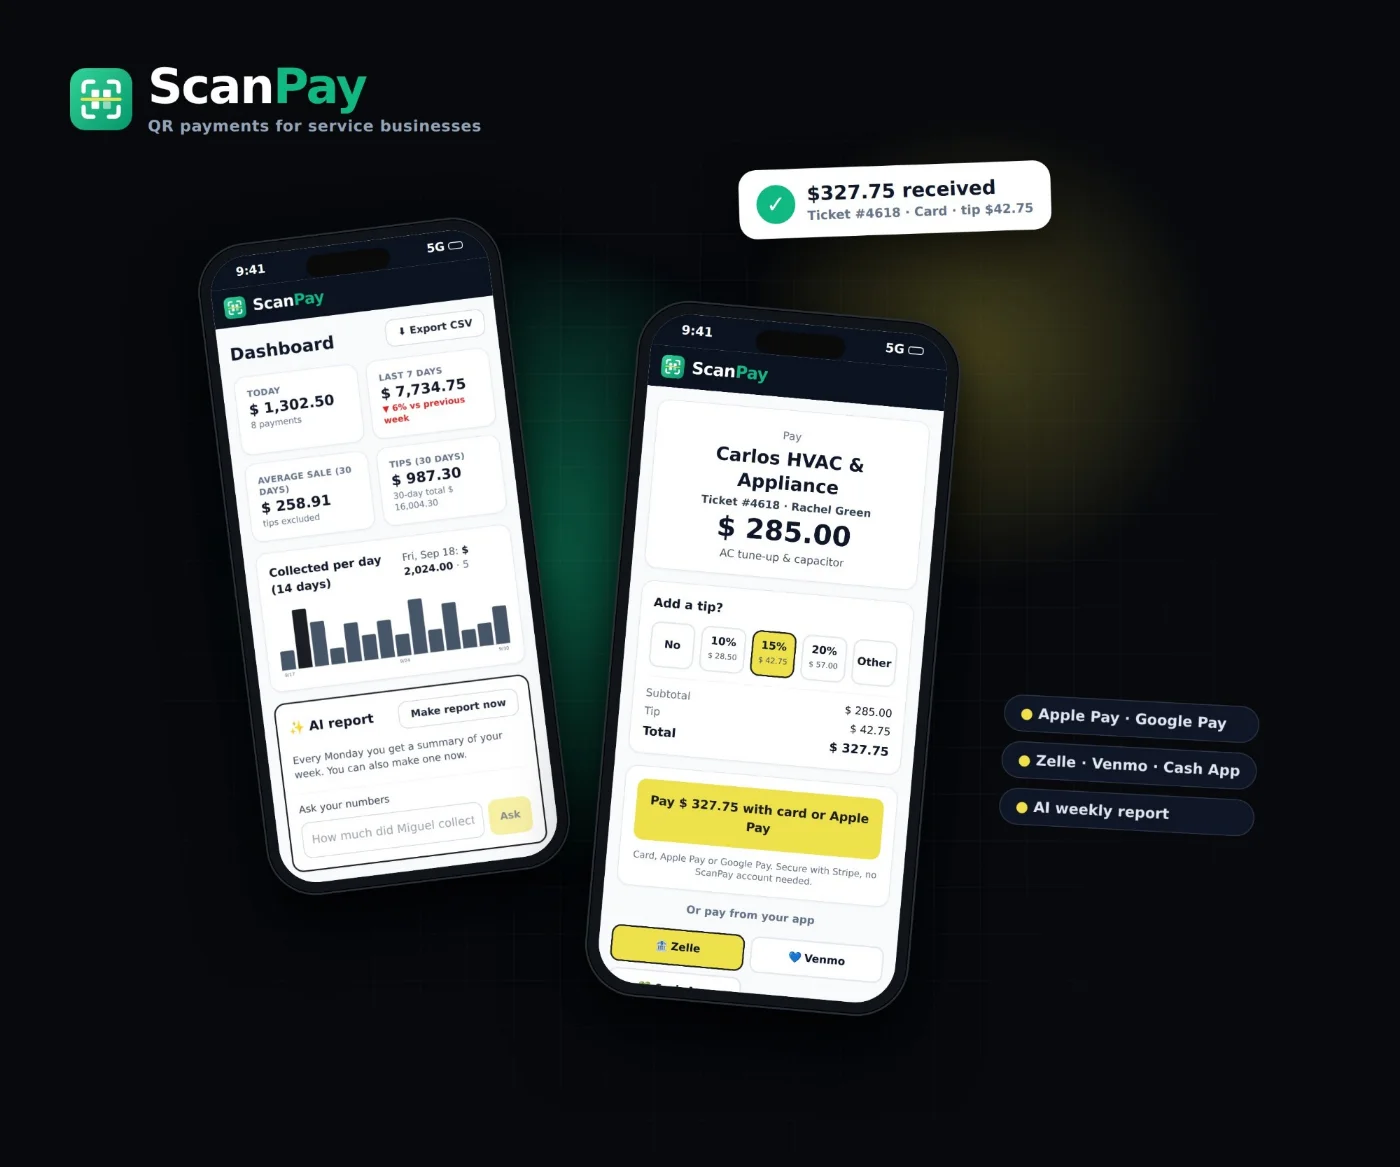
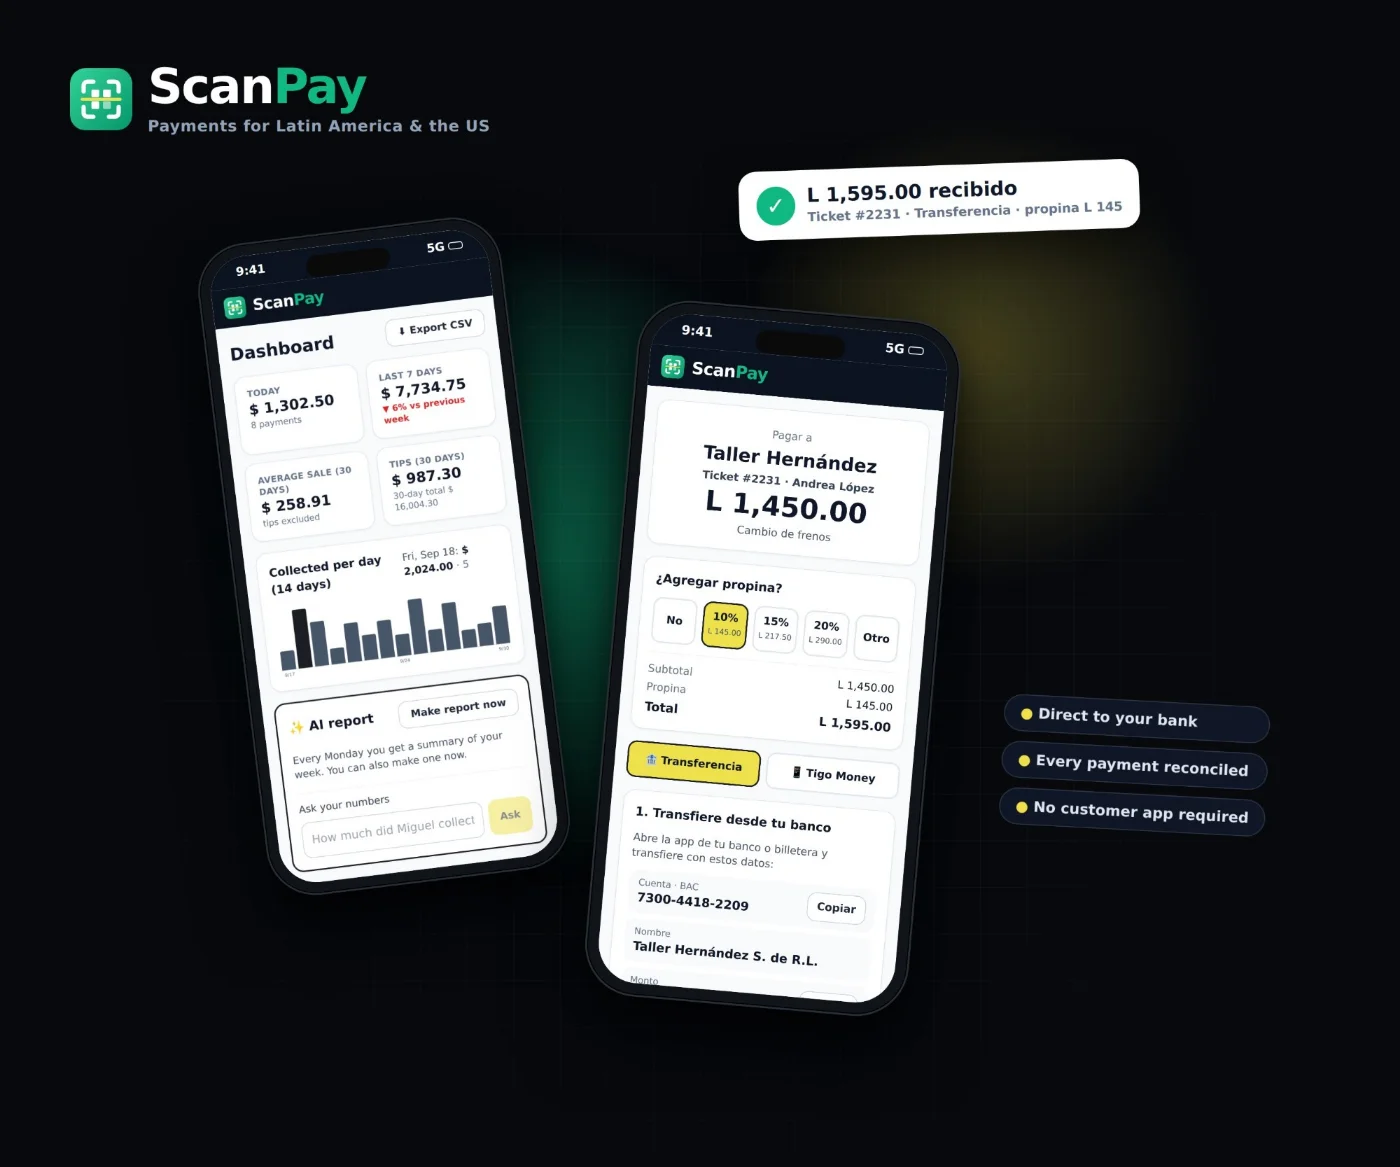
Apps page: reposition ScanPay for Latin America and the US
New copy (problem, how it works, six features with bold leads, US note,
closing line) in English and Spanish, and the new mockup with a bank
transfer in lempiras. The card now shows the mockup as a banner with the
text full-width below, since the longer copy left the side picture
floating in empty space. Page description and hero copy say payments.

Claude-Session: https://claude.ai/code/session_018UZh4FneLQ9JBAsKoA82MW

diff --git a/apps/index.php b/apps/index.php
@@ -29,10 +29,10 @@ $ver = function ($f) use ($shared) { return @filemtime($shared . $f) ?: 1; };
   <meta charset="utf-8" />
   <meta name="viewport" content="width=device-width, initial-scale=1" />
   <title>Rodrik Apps — Enterprise Solutions, Entertainment &amp; Simulation | Rodrik Consulting</title>
-  <meta name="description" content="Rodrik Apps, from Rodrik Consulting: ScanPay for QR payments, FLAME for AI governance, ROHA for organizational health and RodIQ for personalized SAT and ACT preparation; plus Blocky Market and Fantasy Coach Live, entertainment apps built on real-time data and analytics." />
+  <meta name="description" content="Rodrik Apps, from Rodrik Consulting: ScanPay for small-business payments in Latin America and the US, FLAME for AI governance, ROHA for organizational health and RodIQ for personalized SAT and ACT preparation; plus Blocky Market and Fantasy Coach Live, entertainment apps built on real-time data and analytics." />
   <meta property="og:type" content="website" />
   <meta property="og:title" content="Rodrik Apps — ScanPay, FLAME, ROHA, RodIQ, Blocky Market &amp; Fantasy Coach Live" />
-  <meta property="og:description" content="Enterprise solutions for QR payments, AI governance, organizational health and SAT and ACT prep, and entertainment apps built on real-time data and simulation. From Rodrik Consulting." />
+  <meta property="og:description" content="Enterprise solutions for payments, AI governance, organizational health and SAT and ACT prep, and entertainment apps built on real-time data and simulation. From Rodrik Consulting." />
   <meta property="og:url" content="https://apps.rodrikconsulting.com/" />
   <meta property="og:image" content="https://apps.rodrikconsulting.com/og.png" />
   <meta name="twitter:card" content="summary_large_image" />
@@ -195,7 +195,7 @@ $ver = function ($f) use ($shared) { return @filemtime($shared . $f) ?: 1; };
     .tech span{display:inline-block;font-size:12px;font-weight:600;padding:4px 9px;border-radius:999px;margin:0 4px 5px 0;
       background:rgba(255,255,255,.05);border:1px solid rgba(255,255,255,.12);color:var(--ink);}
 
-    /* ScanPay: QR payments, green brand with a yellow pay button; the product mockup on its own dark field */
+    /* ScanPay: payments for Latin America and the US, green brand with a yellow pay button; the product mockup on its own dark field */
     .scanpay .app-visual{background:#08090d url(scanpay.webp) center / contain no-repeat;}
     .scanpay .app-tag{background:rgba(34,195,122,.15);color:#5fe0a4;}
     .scanpay h3 em{font-style:normal;color:#22c37a;}
@@ -204,6 +204,17 @@ $ver = function ($f) use ($shared) { return @filemtime($shared . $f) ?: 1; };
     .scanpay .btn-outline{border-color:#22c37a;color:#5fe0a4;}
     .scanpay .btn-outline:hover{background:rgba(34,195,122,.12);color:#fff;border-color:#22c37a;}
     .scanpay .status-pill{--pill:rgba(242,220,74,.6);color:#fdf6c3;}
+    /* its copy runs long, so the mockup sits on top as a banner and the words use the full width below */
+    .app-card.feature.scanpay{grid-template-columns:1fr;}
+    .app-card.feature.scanpay .app-visual{min-height:0;height:500px;}
+    .app-card.feature.scanpay ul{grid-template-columns:repeat(3,minmax(0,1fr));}
+    .scanpay .app-body > p:not(.tech):not(.app-note){max-width:880px;}
+    @media (max-width:1000px){.app-card.feature.scanpay ul{grid-template-columns:1fr 1fr;}}
+    @media (max-width:640px){.app-card.feature.scanpay .app-visual{height:300px;}.app-card.feature.scanpay ul{grid-template-columns:1fr;}}
+    .scanpay .lead-line{margin:0 0 10px;font-weight:700;color:#5fe0a4;}
+    .scanpay li strong,.scanpay .us-note strong,.scanpay .closing strong{color:#fff;}
+    .scanpay .us-note{margin:0 0 14px;padding:12px 14px;border-left:3px solid #F2DC4A;border-radius:10px;background:rgba(242,220,74,.06);color:var(--muted);font-size:14.5px;}
+    .scanpay .closing{margin:0 0 16px;color:var(--muted);}
 
     /* ROHA: organizational analytics -- a health index, five dimensions, current vs desired */
     .roha .app-visual{background:radial-gradient(circle at 70% 20%, rgba(52,198,142,.22), transparent 58%), linear-gradient(180deg,#0c1b35,#070f1f);}
@@ -356,7 +367,7 @@ $ver = function ($f) use ($shared) { return @filemtime($shared . $f) ?: 1; };
     <div>
       <p class="kicker" data-en="Rodrik Apps" data-es="Rodrik Apps">Rodrik Apps</p>
       <h1 data-en="Software built on the way we think about organizations" data-es="Software construido sobre nuestra forma de entender las organizaciones">Software built on the way we think about organizations</h1>
-      <p class="lede"><span data-en="The same focus on clarity, evidence and measurable impact that guides our consulting work. Enterprise solutions for QR payments, AI governance, organizational health and SAT and ACT preparation. And entertainment apps that put real-time data, analytics and simulation in people's hands." data-es="El mismo enfoque en claridad, evidencia e impacto medible que guía nuestra consultoría. Soluciones empresariales para pagos con QR, la gobernanza de la IA, la salud organizacional y la preparación para el SAT y el ACT. Y apps de entretenimiento que ponen datos en tiempo real, analítica y simulación en manos de las personas.">The same focus on clarity, evidence and measurable impact that guides our consulting work. Enterprise solutions for QR payments, AI governance, organizational health and SAT and ACT preparation. And entertainment apps that put real-time data, analytics and simulation in people's hands.</span></p>
+      <p class="lede"><span data-en="The same focus on clarity, evidence and measurable impact that guides our consulting work. Enterprise solutions for payments, AI governance, organizational health and SAT and ACT preparation. And entertainment apps that put real-time data, analytics and simulation in people's hands." data-es="El mismo enfoque en claridad, evidencia e impacto medible que guía nuestra consultoría. Soluciones empresariales para pagos, la gobernanza de la IA, la salud organizacional y la preparación para el SAT y el ACT. Y apps de entretenimiento que ponen datos en tiempo real, analítica y simulación en manos de las personas.">The same focus on clarity, evidence and measurable impact that guides our consulting work. Enterprise solutions for payments, AI governance, organizational health and SAT and ACT preparation. And entertainment apps that put real-time data, analytics and simulation in people's hands.</span></p>
       <div class="cta">
         <a class="btn" href="#enterprise" data-en="Enterprise solutions" data-es="Soluciones empresariales">Enterprise solutions</a>
         <a class="btn btn-outline" href="https://rodrikconsulting.com/#contact" data-en="Work with us" data-es="Trabaje con nosotros">Work with us</a>
@@ -381,23 +392,27 @@ $ver = function ($f) use ($shared) { return @filemtime($shared . $f) ?: 1; };
 
     <div class="feature-stack">
       <article class="app-card feature scanpay reveal" id="scanpay">
-        <div class="app-visual" role="img" aria-label="ScanPay dashboard and customer payment screen on two phones">
+        <div class="app-visual" role="img" aria-label="ScanPay on two phones: the owner's dashboard, and a customer paying a repair shop by bank transfer with a tip">
           <span class="status-pill" data-en="Pilot · Coming soon" data-es="Piloto · Próximamente">Pilot · Coming soon</span>
         </div>
         <div class="app-body">
-          <span class="app-tag" data-en="Payments" data-es="Pagos">Payments</span>
+          <span class="app-tag" data-en="Payments · Latin America &amp; US" data-es="Pagos · Latinoamérica y EE.&nbsp;UU.">Payments · Latin America &amp; US</span>
           <h3>Scan<em>Pay</em></h3>
-          <p class="full" data-en="QR payments for service businesses" data-es="Pagos con QR para negocios de servicios">QR payments for service businesses</p>
-          <p class="tagline" data-en="Get paid on the spot. Straight to your account." data-es="Cobre en el momento. Directo a su cuenta.">Get paid on the spot. Straight to your account.</p>
-          <p class="pitch"><span data-en="ScanPay turns any job, ticket or counter into a QR code. The customer scans it, adds a tip, and pays with Apple Pay, Google Pay, card, Zelle, Venmo or Cash App. The money goes straight to the business's own account, and the owner sees it come in live." data-es="ScanPay convierte cualquier trabajo, ticket o mostrador en un código QR. El cliente lo escanea, agrega una propina y paga con Apple Pay, Google Pay, tarjeta, Zelle, Venmo o Cash App. El dinero va directo a la cuenta del negocio, y el dueño lo ve llegar en vivo.">ScanPay turns any job, ticket or counter into a QR code. The customer scans it, adds a tip, and pays with Apple Pay, Google Pay, card, Zelle, Venmo or Cash App. The money goes straight to the business's own account, and the owner sees it come in live.</span></p>
+          <p class="full" data-en="The payment system built for Latin America's small businesses." data-es="El sistema de pagos hecho para los pequeños negocios de Latinoamérica.">The payment system built for Latin America's small businesses.</p>
+          <p class="tagline" data-en="Get paid like a big company, using the bank account you already have." data-es="Cobre como una gran empresa, con la cuenta bancaria que ya tiene.">Get paid like a big company, using the bank account you already have.</p>
+          <p class="pitch"><span data-en="Across Latin America, millions of small businesses still rely on cash and manual bank transfers. The payment may arrive, but matching it to the customer, sale, employee and tip is still manual." data-es="En toda Latinoamérica, millones de pequeños negocios todavía dependen del efectivo y de transferencias bancarias manuales. El pago puede llegar, pero relacionarlo con el cliente, la venta, el empleado y la propina sigue siendo manual.">Across Latin America, millions of small businesses still rely on cash and manual bank transfers. The payment may arrive, but matching it to the customer, sale, employee and tip is still manual.</span></p>
+          <p class="lead-line" data-en="ScanPay turns a bank transfer into a trackable business payment." data-es="ScanPay convierte una transferencia bancaria en un pago de negocio rastreable.">ScanPay turns a bank transfer into a trackable business payment.</p>
+          <p class="pitch"><span data-en="Every sale gets its own payment QR. The customer scans it, pays through a supported bank or wallet, and the money goes directly to the business's account. ScanPay connects the payment to the sale, employee, tip and reporting, without holding the merchant's money." data-es="Cada venta tiene su propio QR de pago. El cliente lo escanea, paga desde un banco o billetera compatible, y el dinero va directo a la cuenta del negocio. ScanPay conecta el pago con la venta, el empleado, la propina y los reportes, sin retener el dinero del comercio.">Every sale gets its own payment QR. The customer scans it, pays through a supported bank or wallet, and the money goes directly to the business's account. ScanPay connects the payment to the sale, employee, tip and reporting, without holding the merchant's money.</span></p>
           <ul>
-            <li data-en="Scan-to-pay in seconds. The customer doesn't need an app or an account." data-es="Pague con un escaneo en segundos. El cliente no necesita una app ni una cuenta.">Scan-to-pay in seconds. The customer doesn't need an app or an account.</li>
-            <li data-en="Apple Pay and Google Pay, plus Zelle, Venmo and Cash App" data-es="Apple Pay y Google Pay, además de Zelle, Venmo y Cash App">Apple Pay and Google Pay, plus Zelle, Venmo and Cash App</li>
-            <li data-en="Tips built in: 10%, 15%, 20% or a custom amount" data-es="Propinas integradas: 10&nbsp;%, 15&nbsp;%, 20&nbsp;% o un monto personalizado">Tips built in: 10%, 15%, 20% or a custom amount</li>
-            <li data-en="Ticket QRs for invoices, with automatic reminders for unpaid ones" data-es="QR por ticket para facturas, con recordatorios automáticos de las pendientes">Ticket QRs for invoices, with automatic reminders for unpaid ones</li>
-            <li data-en="A QR for each tech, with owner, manager and staff roles" data-es="Un QR para cada técnico, con roles de dueño, gerente y personal">A QR for each tech, with owner, manager and staff roles</li>
-            <li data-en="An AI weekly report with sales, KPIs and top performers" data-es="Un informe semanal con IA con ventas, KPI y mejores desempeños">An AI weekly report with sales, KPIs and top performers</li>
+            <li><strong data-en="Direct to your local bank." data-es="Directo a su banco local.">Direct to your local bank.</strong> <span data-en="ScanPay never holds your funds." data-es="ScanPay nunca retiene sus fondos.">ScanPay never holds your funds.</span></li>
+            <li><strong data-en="Every payment matched to its sale." data-es="Cada pago vinculado a su venta.">Every payment matched to its sale.</strong> <span data-en="No more manually reconciling transfers and screenshots." data-es="Se acabó conciliar a mano transferencias y capturas de pantalla.">No more manually reconciling transfers and screenshots.</span></li>
+            <li><strong data-en="Tips built in." data-es="Propinas integradas.">Tips built in.</strong> <span data-en="Customers can add a tip before paying." data-es="Los clientes pueden agregar una propina antes de pagar.">Customers can add a tip before paying.</span></li>
+            <li><strong data-en="Your whole team on one system." data-es="Todo su equipo en un solo sistema.">Your whole team on one system.</strong> <span data-en="Track sales and tips by employee." data-es="Siga las ventas y las propinas por empleado.">Track sales and tips by employee.</span></li>
+            <li><strong data-en="Live reporting and AI insights." data-es="Reportes en vivo e información con IA.">Live reporting and AI insights.</strong> <span data-en="Ask questions about your business in plain language." data-es="Haga preguntas sobre su negocio en lenguaje sencillo.">Ask questions about your business in plain language.</span></li>
+            <li><strong data-en="Local currency, Spanish and English." data-es="Moneda local, español e inglés.">Local currency, Spanish and English.</strong> <span data-en="No customer app required." data-es="El cliente no necesita una app.">No customer app required.</span></li>
           </ul>
+          <p class="us-note"><strong data-en="Built for the US, too." data-es="También para Estados Unidos.">Built for the US, too.</strong> <span data-en="Support for Apple Pay, Google Pay, cards and popular US payment methods gives service businesses the same ScanPay workflow." data-es="Con Apple Pay, Google Pay, tarjetas y los métodos de pago más usados en EE.&nbsp;UU., los negocios de servicios tienen el mismo flujo de trabajo de ScanPay.">Support for Apple Pay, Google Pay, cards and popular US payment methods gives service businesses the same ScanPay workflow.</span></p>
+          <p class="closing"><strong data-en="Not another payment app." data-es="No es otra app de pagos.">Not another payment app.</strong> <span data-en="The payment infrastructure small businesses have been missing." data-es="Es la infraestructura de pagos que les faltaba a los pequeños negocios.">The payment infrastructure small businesses have been missing.</span></p>
           <p class="tech"><b data-en="At a glance" data-es="De un vistazo">At a glance</b><span>Stripe Connect</span><span data-en="Real-time payments" data-es="Pagos en tiempo real">Real-time payments</span><span data-en="Role-based teams" data-es="Equipos por roles">Role-based teams</span><span data-en="AI analytics" data-es="Analítica con IA">AI analytics</span><span data-en="English &amp; Spanish" data-es="Inglés y español">English &amp; Spanish</span></p>
           <div class="app-actions">
             <span class="btn" aria-disabled="true" data-en="Pilot program · Coming soon" data-es="Programa piloto · Próximamente">Pilot program · Coming soon</span>
